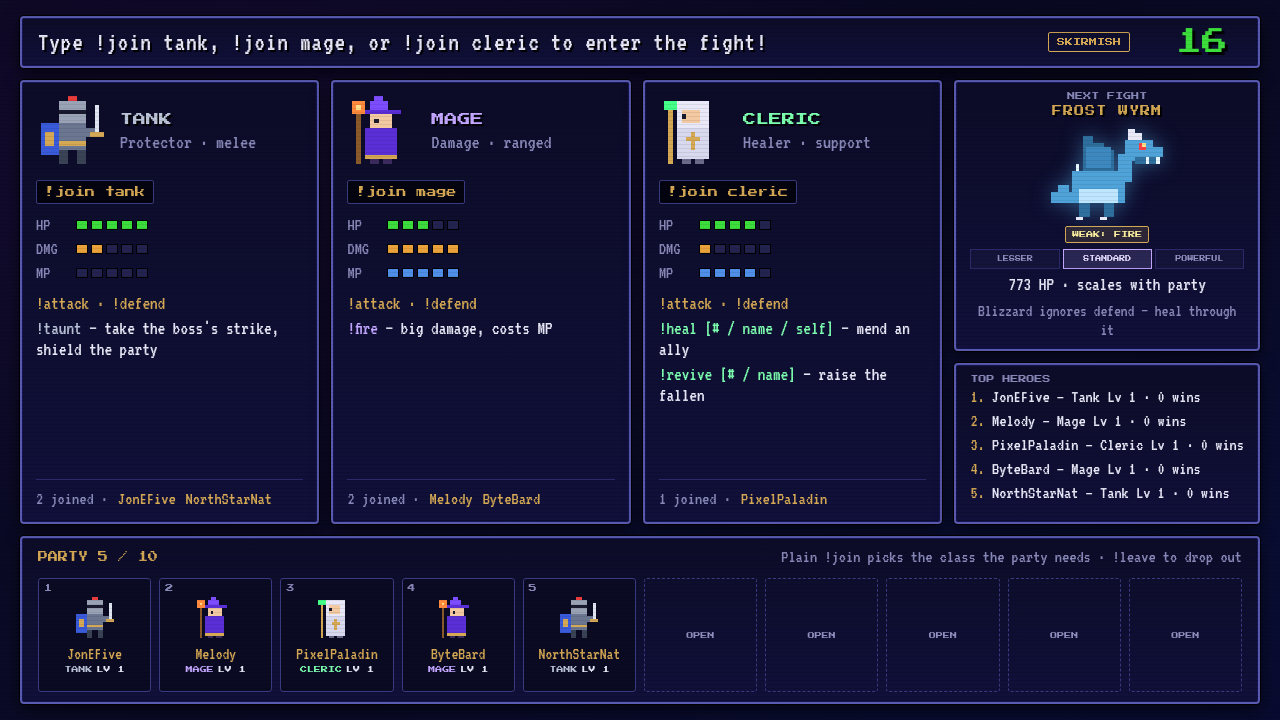
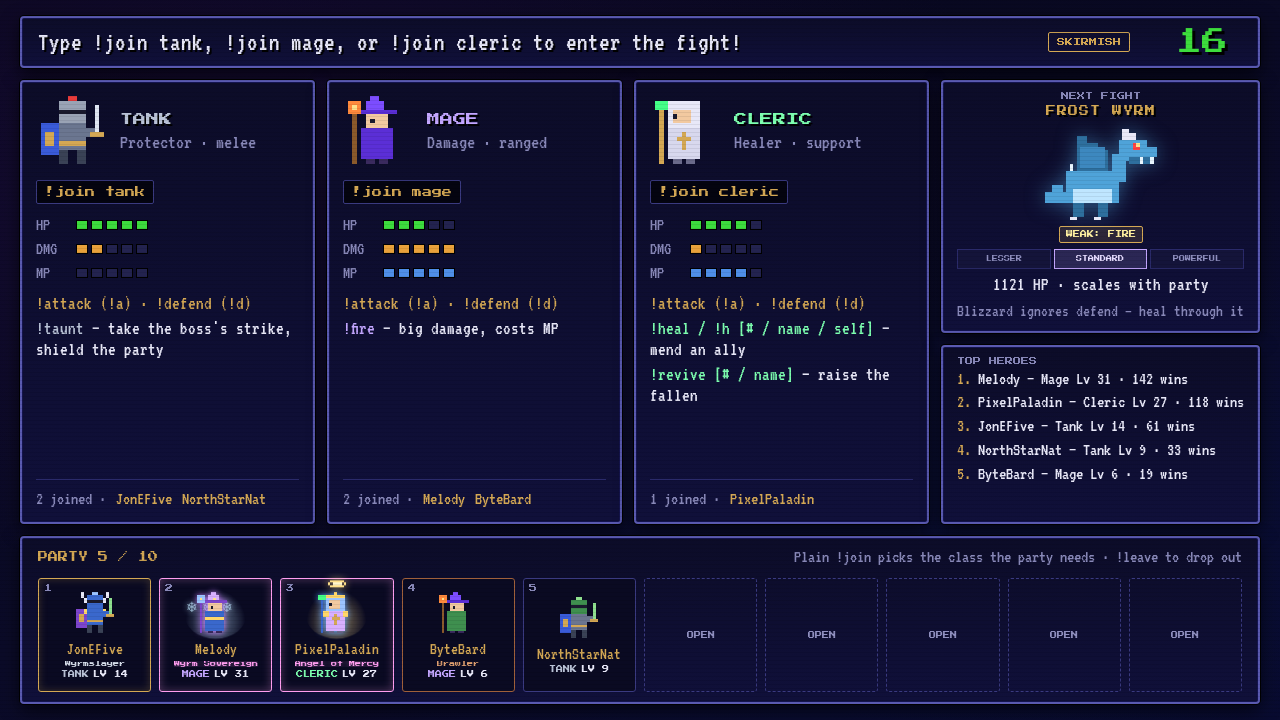
Update README and screenshots for NPC allies, awards and the new overlay
README: animated battlefield in the intro, !a/!d short forms, the
duplicate-message tip in troubleshooting, Releases page and how to get
the code, npm run dev, CI and npm run screenshot, chatCommands.js in the
layout. The roadmap drops "earnable titles" (awards shipped) and names the
crowd meter as likely next.

Screenshots retaken (the old ones predated awards and NPC allies): battle,
Ember Golem, lobby and results now show levels, gear, name-plate frames,
titles, auras and the new command hints, with effects in flight. New
npc-allies.png for the NPC allies section: a solo Tank with Sister Wren and
Pell against the Shadow Lich. The raid screens are unchanged and kept.

+semver: none

diff --git a/README.md b/README.md
@@ -3,7 +3,8 @@
 A collaborative, round-based boss fight that your Twitch chat plays together.
 Viewers join a party as a Tank, Mage or Cleric and type commands like `!attack`,
 `!defend` or `!heal` in chat. Once per round the game resolves everyone's choice
-at once, and a JRPG-style battle screen shows the result on stream.
+at once, and a JRPG-style battle screen plays it out on stream: fireballs, heals
+and boss attacks fly across the battlefield, one action at a time.
 
 ![A Frost Wyrm battle in progress: party on the right, combat log and party status below](docs/images/battle.png)
 
@@ -36,8 +37,8 @@ runs on your own computer as a small Node.js server that reads your Twitch chat.
 | **Mage** | Damage | `!fire`: big damage for MP |
 | **Cleric** | Healer | `!heal [slot / name / self]`, `!revive [slot / name]` |
 
-Everyone can `!attack` and `!defend`. Defending blocks 90% of most hits and
-recovers a little HP, which keeps healer-less parties alive.
+Everyone can `!attack` and `!defend` (or just `!a` and `!d`). Defending blocks
+90% of most hits and recovers a little HP, which keeps healer-less parties alive.
 
 ### Four bosses
 
@@ -70,6 +71,8 @@ like anyone in chat. If every player falls while Sister Wren is still standing,
 she gets three quick rounds (no slip-ups) to revive someone before the fight is
 lost. Raids with NPC allies go up to Heroic tier, not Mythic. Mods can turn them
 off with `!npcs off`.
+
+![A solo Tank fighting the Shadow Lich with Sister Wren and Pell, as the boss's Hex flies toward Pell](docs/images/npc-allies.png)
 
 ### Progression and loot
 
@@ -142,8 +145,12 @@ Still to come:
   stats and inventory, and choose your gear between streams.
 - **Real pixel art.** Every sprite is placeholder art drawn in code for now.
 
-Ideas further out include a crowd-cheer meter for spectators, seasonal bosses
-and earnable titles.
+Likely next is a **crowd meter**: viewers who aren't fighting cheer the party on
+by posting emotes. Ideas further out include seasonal event bosses with
+limited-time titles.
+
+Every change that passes the tests on `main` is tagged and published on the
+[Releases page](https://github.com/JonEFiveAlive/twitch-boss-fight/releases).
 
 ---
 
@@ -157,9 +164,12 @@ and earnable titles.
   (recommended, so bot messages don't look like they're from you) a second free
   Twitch account created just for this.
 
-### 2. Install dependencies
+### 2. Get the code and install dependencies
 
-Open a terminal in the `twitch-boss-fight` folder and run:
+Download the latest release's source code from the
+[Releases page](https://github.com/JonEFiveAlive/twitch-boss-fight/releases) and
+unzip it, or clone the repository with git. Then open a terminal in the
+`twitch-boss-fight` folder and run:
 
 ```bash
 npm install
@@ -223,6 +233,9 @@ Overlay server running at http://localhost:3000/overlay.html
 Connected to Twitch chat, channel: your_channel_name
 ```
 
+If you're changing the code, `npm run dev` does the same but restarts the server
+whenever a file changes.
+
 ### 7. Add the overlay to OBS
 
 1. In OBS, add a **Browser Source**.
@@ -273,11 +286,12 @@ The lobby counts down 20 seconds after the first `!join`, then the battle starts
 | `!title <name>` / `!title off` / `!title auto` | Show one of your titles (part of the name is enough), none, or your best one (the default). |
 | `!aura <name>` / `!aura off` / `!aura auto` | Same for your aura. |
 
-Twitch won't post the same message twice within 30 seconds, and rounds are shorter
-than that. To repeat an action, switch between its forms (`!attack`, `!a`, `!atk`) or
-add anything after it: `!taunt 1`, `!taunt 2`, `!heal 3 again`. Words after a command
-are ignored, except a heal or revive target, which is read from the start. The invisible
-character Chatterino and 7TV add to repeated messages is ignored too.
+Twitch won't post the same message twice within 30 seconds, and rounds are
+shorter than that. To repeat an action, switch between its forms (`!attack`,
+`!a`, `!atk`) or add anything after it: `!taunt 1`, `!taunt 2`,
+`!heal 3 again`. Words after a command are ignored, except a heal or revive
+target, which is read from the start. The invisible character Chatterino and 7TV
+add to repeated messages is ignored too.
 
 ### Mod / broadcaster commands
 
@@ -302,8 +316,8 @@ While the game is closed, the overlay shows a "The Wyrm Sleeps" card with the
 leaderboard and `!join` is ignored. To have the server start closed (so nothing
 runs before you go live), set `GAME_OPEN_ON_START: false` in
 `src/gameConfig.js`; `MANUAL_START_DEFAULT: true` likewise starts in manual
-mode, and `NPC_ALLIES_DEFAULT: false` starts with NPC allies off. Changes made with chat commands reset to these defaults when the server
-restarts.
+mode, and `NPC_ALLIES_DEFAULT: false` starts with NPC allies off. Changes made
+with chat commands reset to these defaults when the server restarts.
 
 ---
 
@@ -323,8 +337,12 @@ node scripts/balance-sim.js --raid --only TMC       # raid clear rates
 node scripts/balance-sim.js --set BURN_DAMAGE=10    # try a value without editing the config
 ```
 
-Run the test suite with `npm test`. It plays fights, raids and stream-control
-scenarios through the real game loop in about a second.
+Run the test suite with `npm test`. It plays fights, raids, NPC allies, chat
+parsing and stream-control scenarios through the real game loop in about a
+second. GitHub Actions runs it on Node 22 and 26 for every push and pull request.
+
+To check a change to the overlay without OBS, `npm run screenshot` captures it
+with a headless browser (one-time setup: `npx playwright install chromium`).
 
 ## Project layout
 
@@ -340,17 +358,18 @@ src/
   progress.js     SQLite persistence: XP, levels, stats, items, awards
   achievements.js award tracks, titles and auras
   npc.js          NPC allies: who fills in and how they play
+  chatCommands.js chat parsing: command aliases, invisible-character cleanup
   server.js       web server, Socket.IO and the Twitch chat connection
   twitchAuth.js   access-token refresh
   devChat.js      offline mode's fake chat
 public/
   overlay.html/.css/.js   the OBS overlay (battle, lobby, results screens)
-  sprites.js              placeholder pixel art drawn as SVG
+  sprites.js              placeholder pixel art as SVG: characters, bosses, icons
 scripts/
   get-twitch-token.js     one-time OAuth setup
   balance-sim.js          balance simulator
   screenshot.js           headless overlay screenshots (npm run screenshot)
-test/                     npm test: game-loop, raid, boss and stream-control tests
+test/                     npm test (fights, raids, NPCs, gear, awards, chat...)
 ```
 
 ## Troubleshooting
@@ -370,6 +389,10 @@ test/                     npm test: game-loop, raid, boss and stream-control tes
   `http://localhost:3000/overlay.html`.
 - **Commands aren't registering:** commands are case-insensitive but must start
   the message (`!attack`, `!join mage`, `!startbattle`, ...).
+- **Twitch says "your message is identical to one you sent recently":** Twitch
+  blocks repeating a message within 30 seconds. Alternate the short forms
+  (`!a`, `!atk`, `!attack`) or add a word (`!taunt 1`, `!taunt 2`); see
+  [Player commands](#player-commands).
 
 ## License
 
